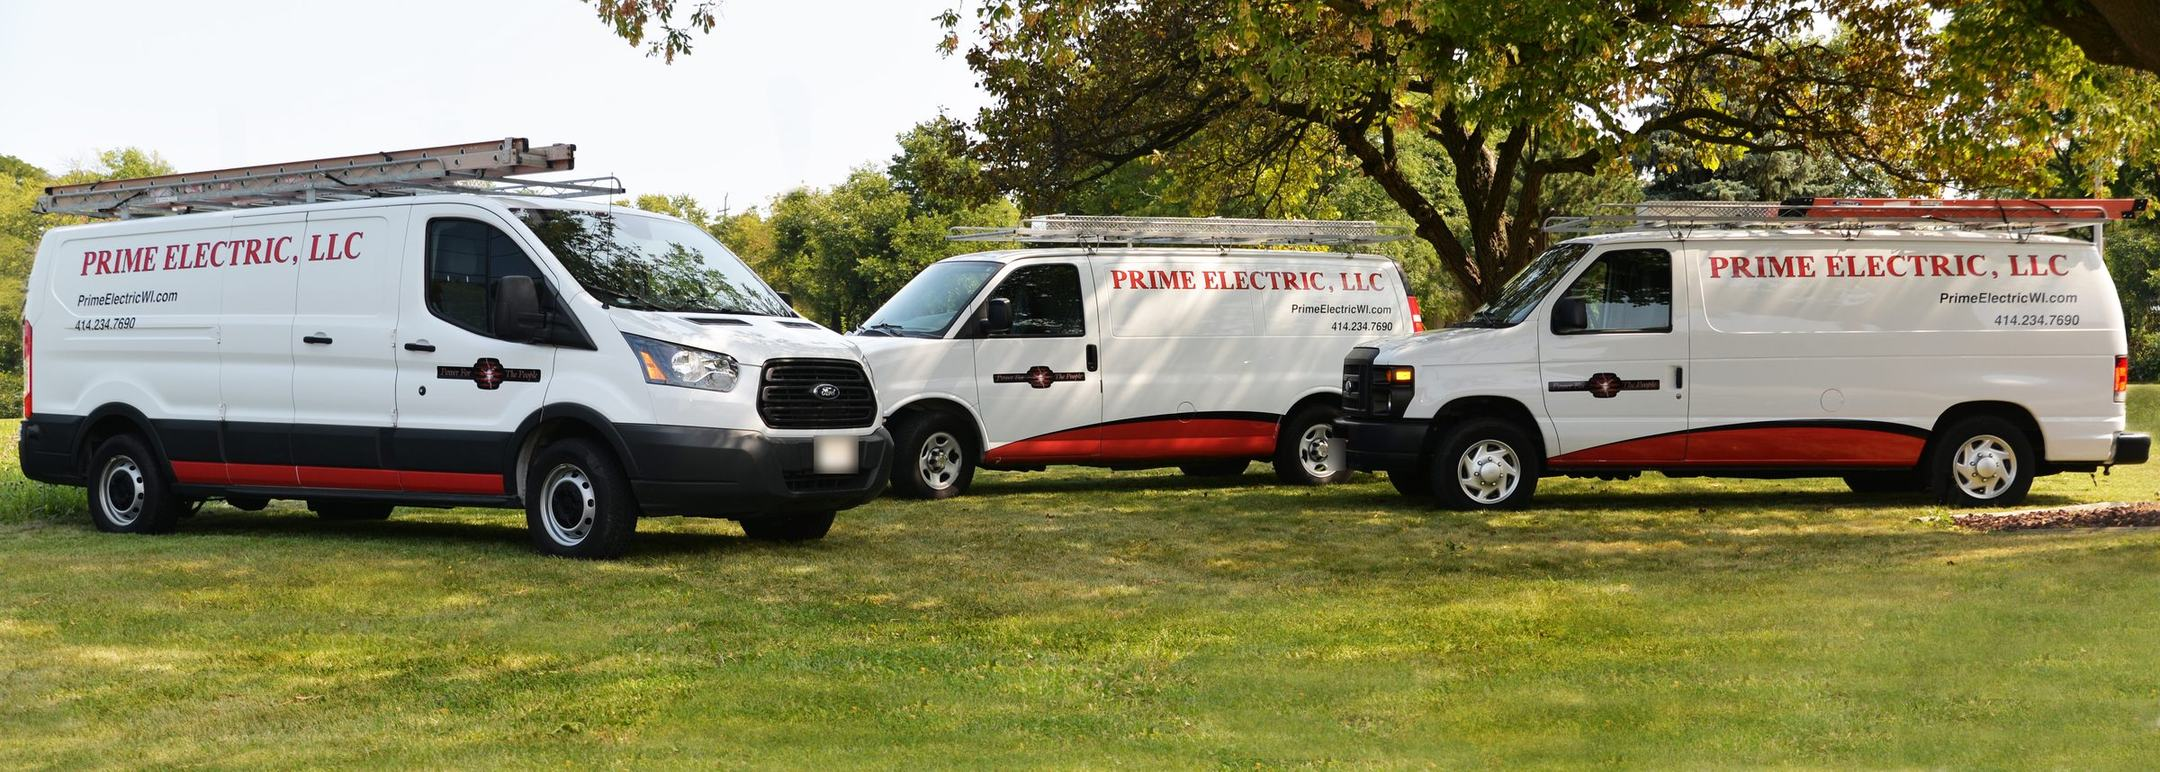
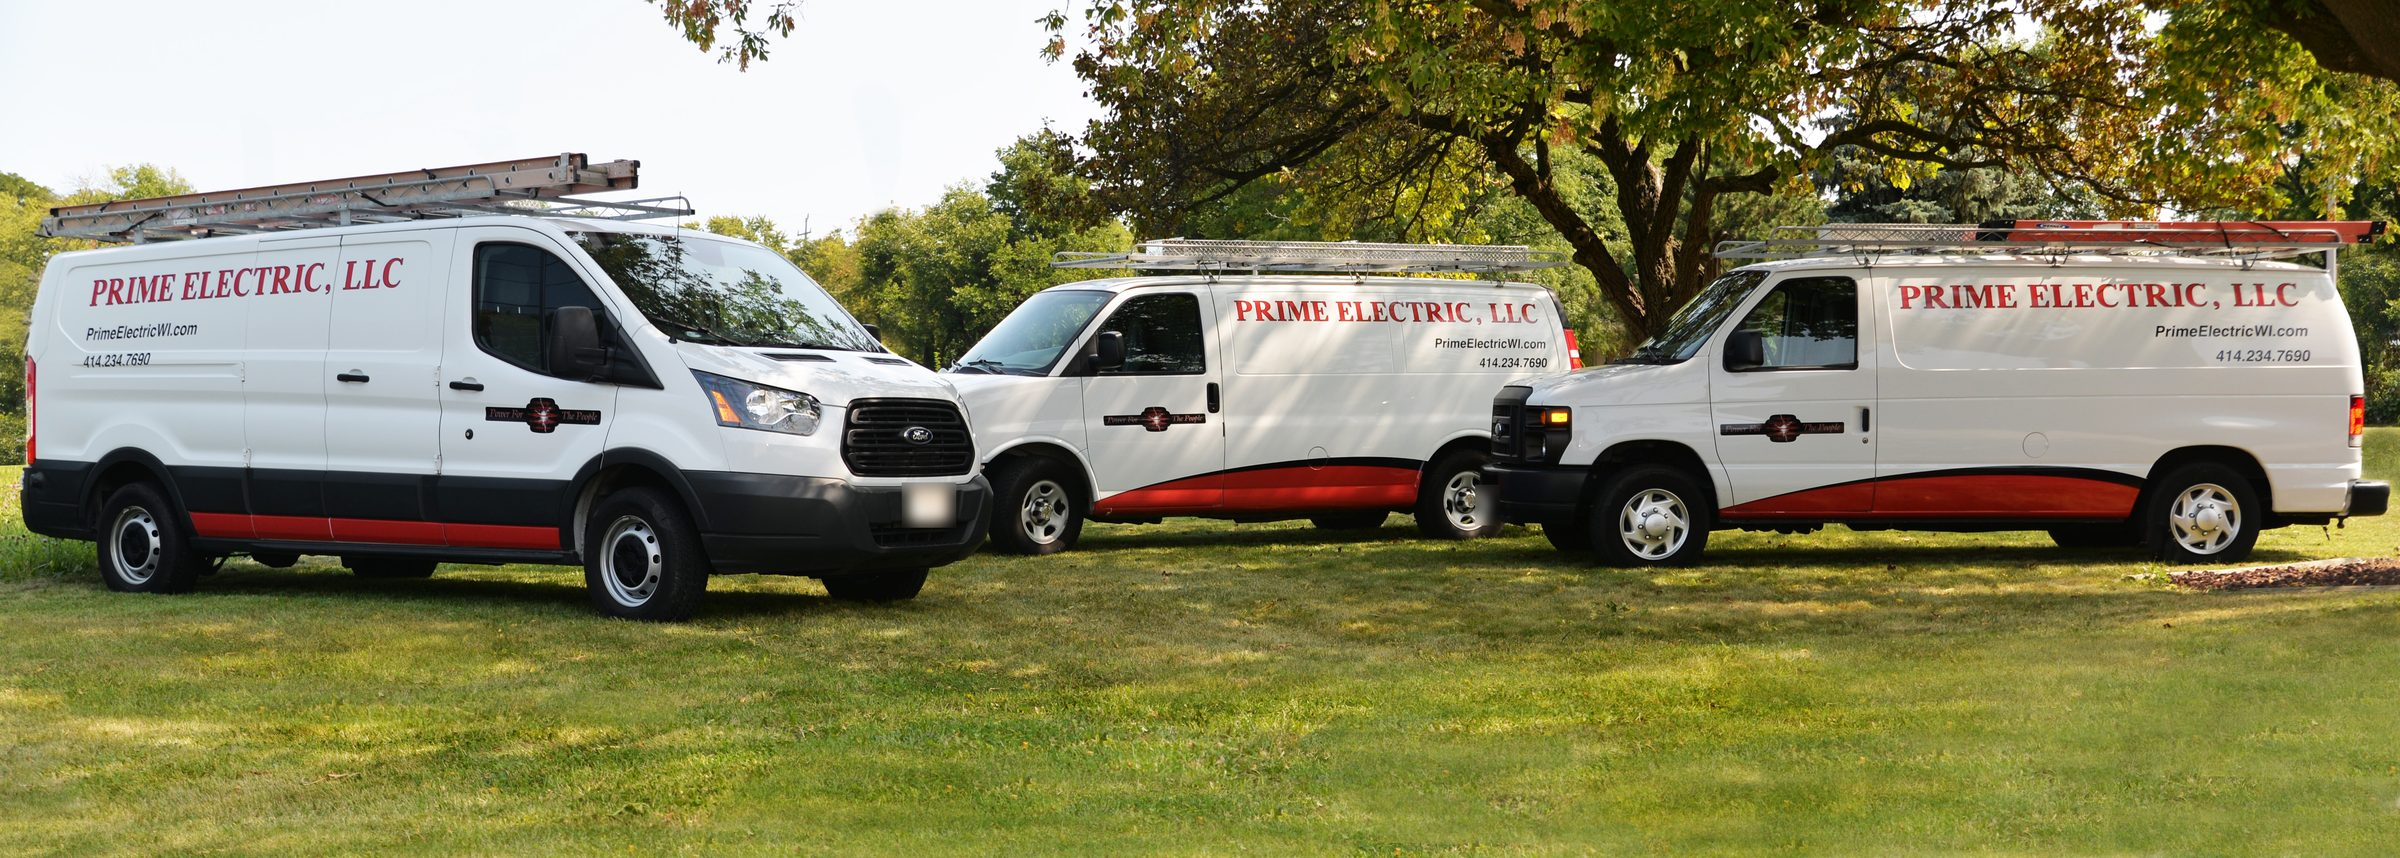
CCP-162 v2 Prime Electric: fleet hero re-exported from full-size own-site original
Claude-Session: https://claude.ai/code/session_01KF4ekd6yxVLLwbNYfGosug

diff --git a/prime-electric/index.html b/prime-electric/index.html
@@ -76,11 +76,12 @@ h1 em{font-style:normal;color:var(--red-on-dark)}
 .fleet{position:relative;margin-top:clamp(40px,6vw,64px)}
 .fleet::before{content:"";position:absolute;inset:auto 0 0 0;height:50%;background:var(--white)}
 .fleet figure{position:relative;margin:0;border-radius:18px;overflow:hidden;box-shadow:0 24px 60px rgba(0,0,0,.35)}
-.fleet img{width:100%;aspect-ratio:2160/772;object-fit:cover}
+.fleet picture{display:contents}
+.fleet img{width:100%;height:auto;aspect-ratio:2400/858;object-fit:cover;display:block}
 .fleet figcaption{position:absolute;left:16px;bottom:14px;background:rgba(31,35,40,.82);color:#fff;font-size:.78rem;font-weight:600;padding:6px 12px;border-radius:999px}
 @media (max-width:860px){.hero-grid{grid-template-columns:minmax(0,1fr)}.owner-card{max-width:560px}}
 @media (max-width:600px){
-  .fleet img{aspect-ratio:4/3;object-position:55% 50%}
+  .fleet img{aspect-ratio:4/3;object-position:50% 50%}
   .fleet figcaption{left:10px;bottom:10px}
 }
 
@@ -261,7 +262,7 @@ footer .links a{min-height:44px;display:inline-flex;align-items:center}
     <div class="fleet">
       <div class="wrap">
         <figure>
-          <img src="img/fleet.jpg" width="2160" height="772" alt="Three white Prime Electric vans with red side stripes and roof ladders parked on a lawn under trees">
+          <picture><source media="(max-width:600px)" srcset="img/fleet-phone.webp" width="2133" height="1600" type="image/webp"><source srcset="img/fleet.webp" type="image/webp" width="2400" height="858"><img src="img/fleet.jpg" width="2400" height="858" alt="Three white Prime Electric vans with red side stripes and roof ladders parked on a lawn under trees"></picture>
           <figcaption>The Prime Electric fleet</figcaption>
         </figure>
       </div>
